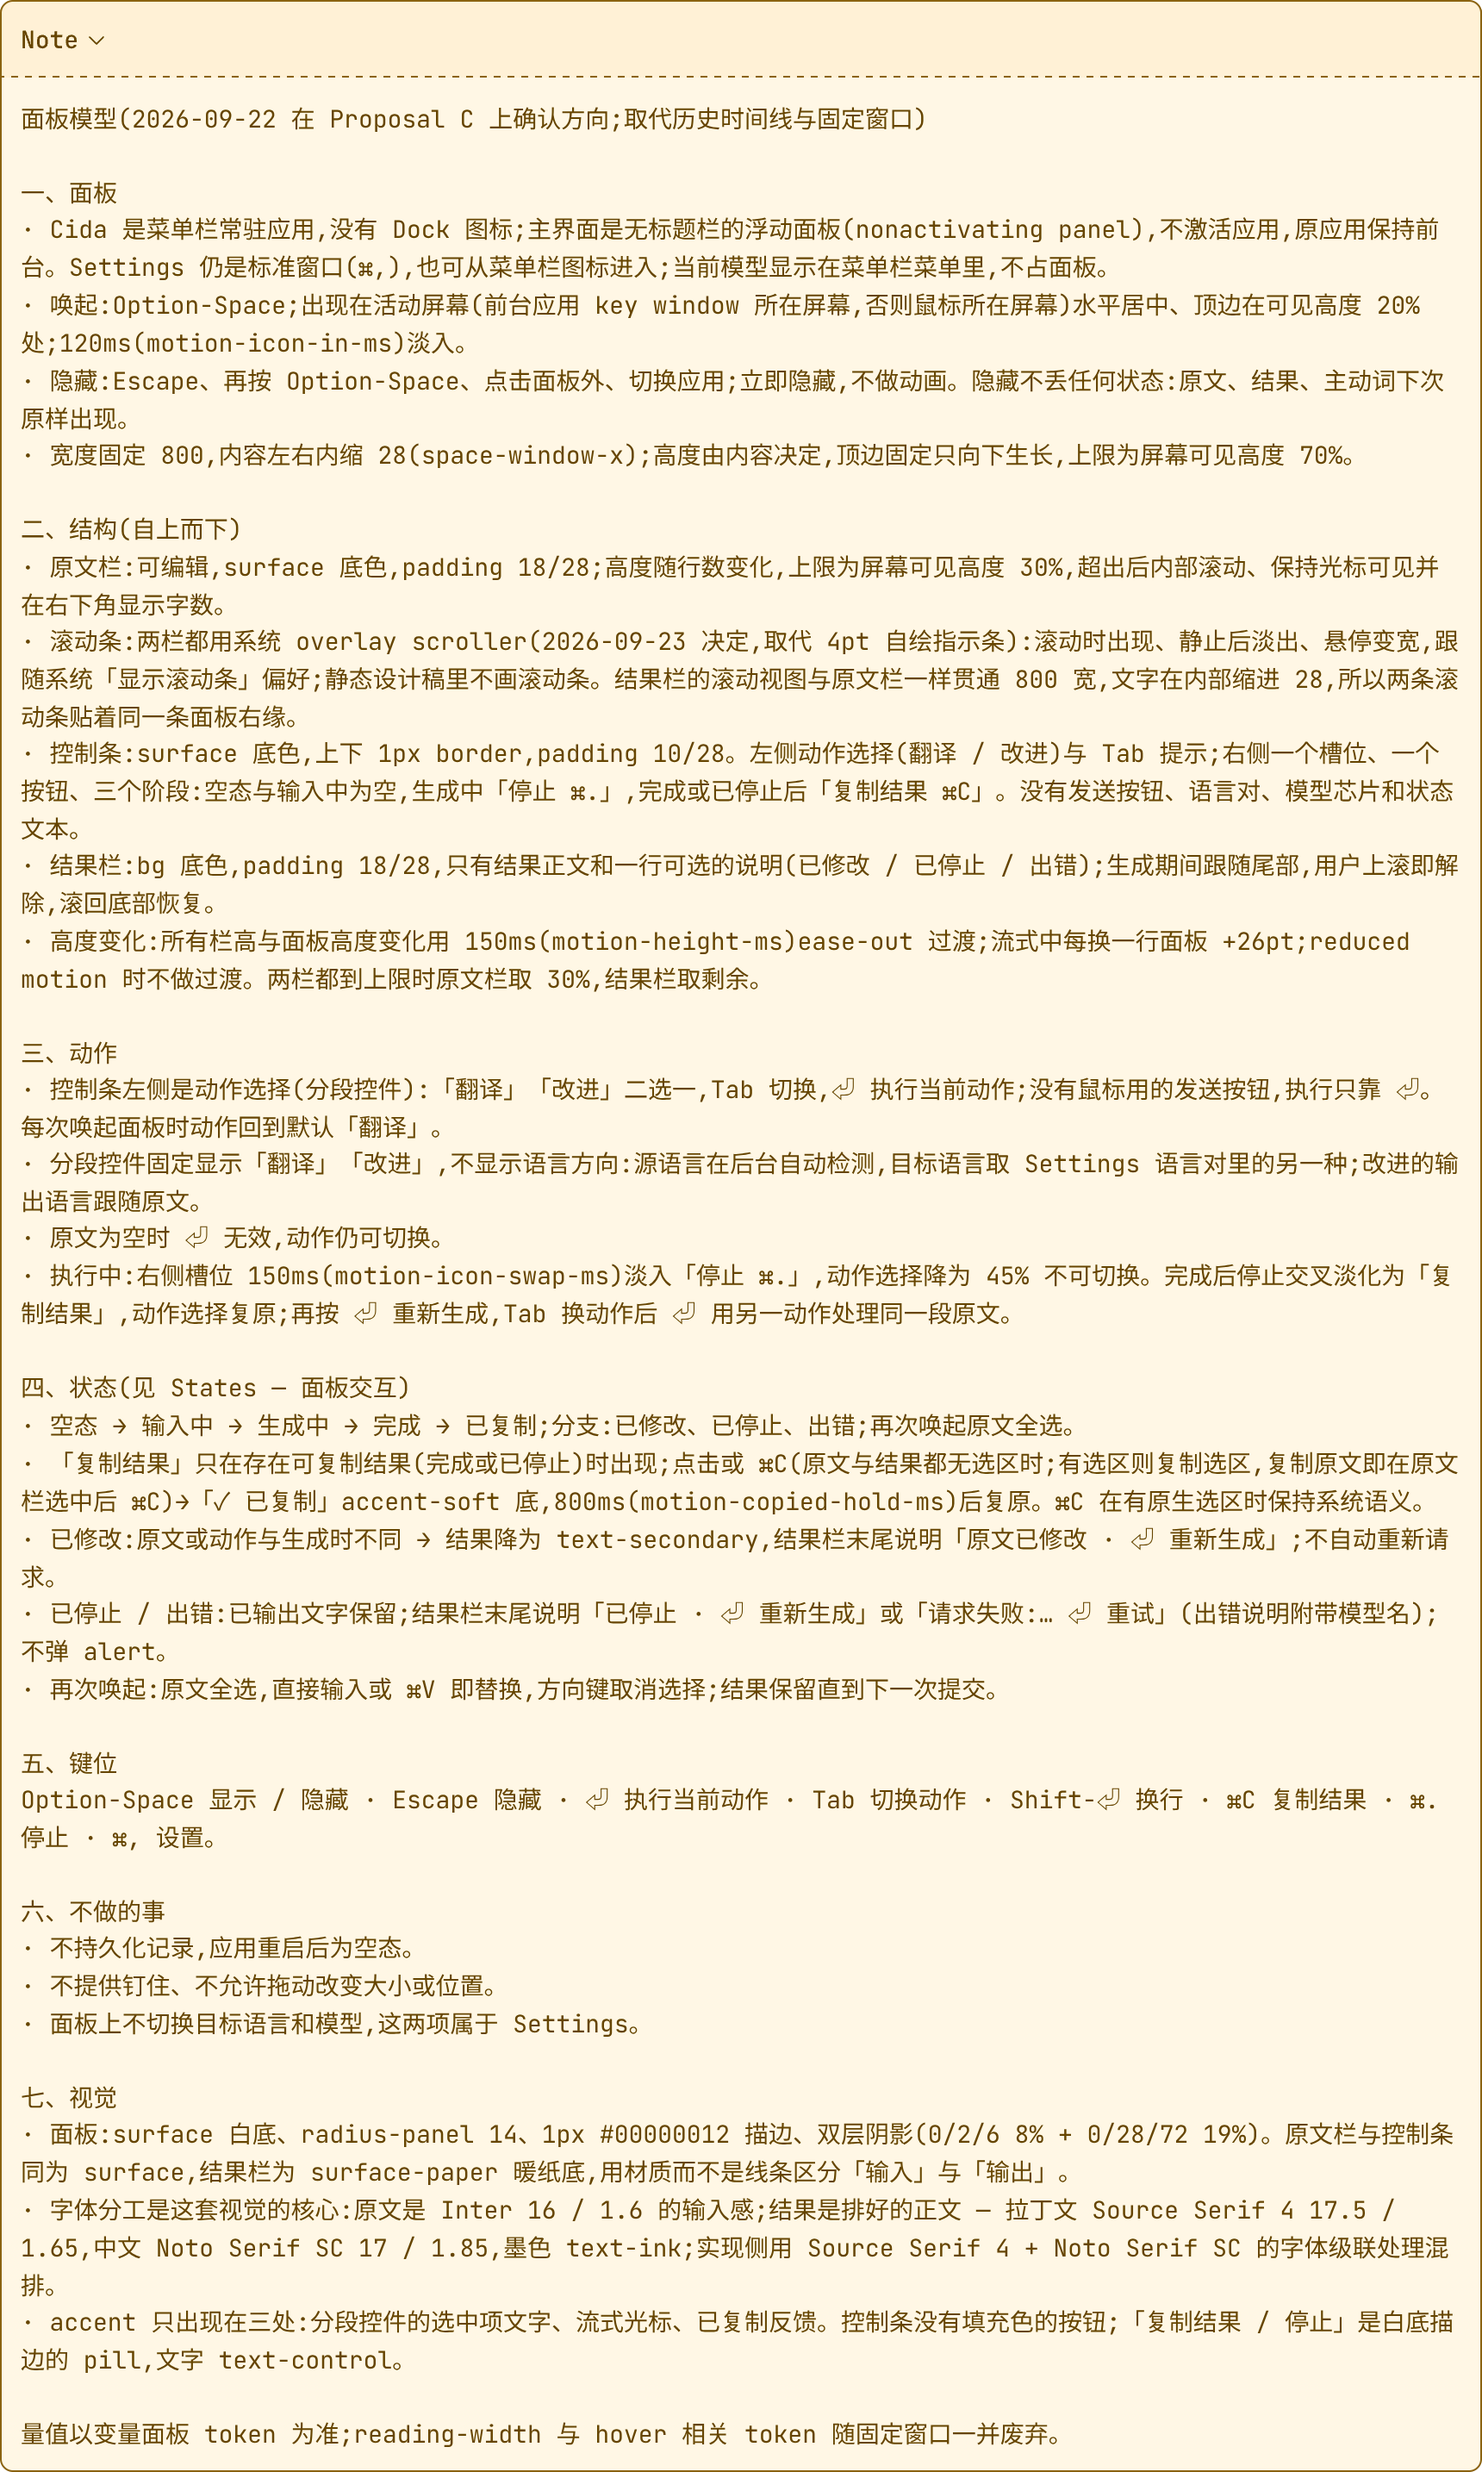
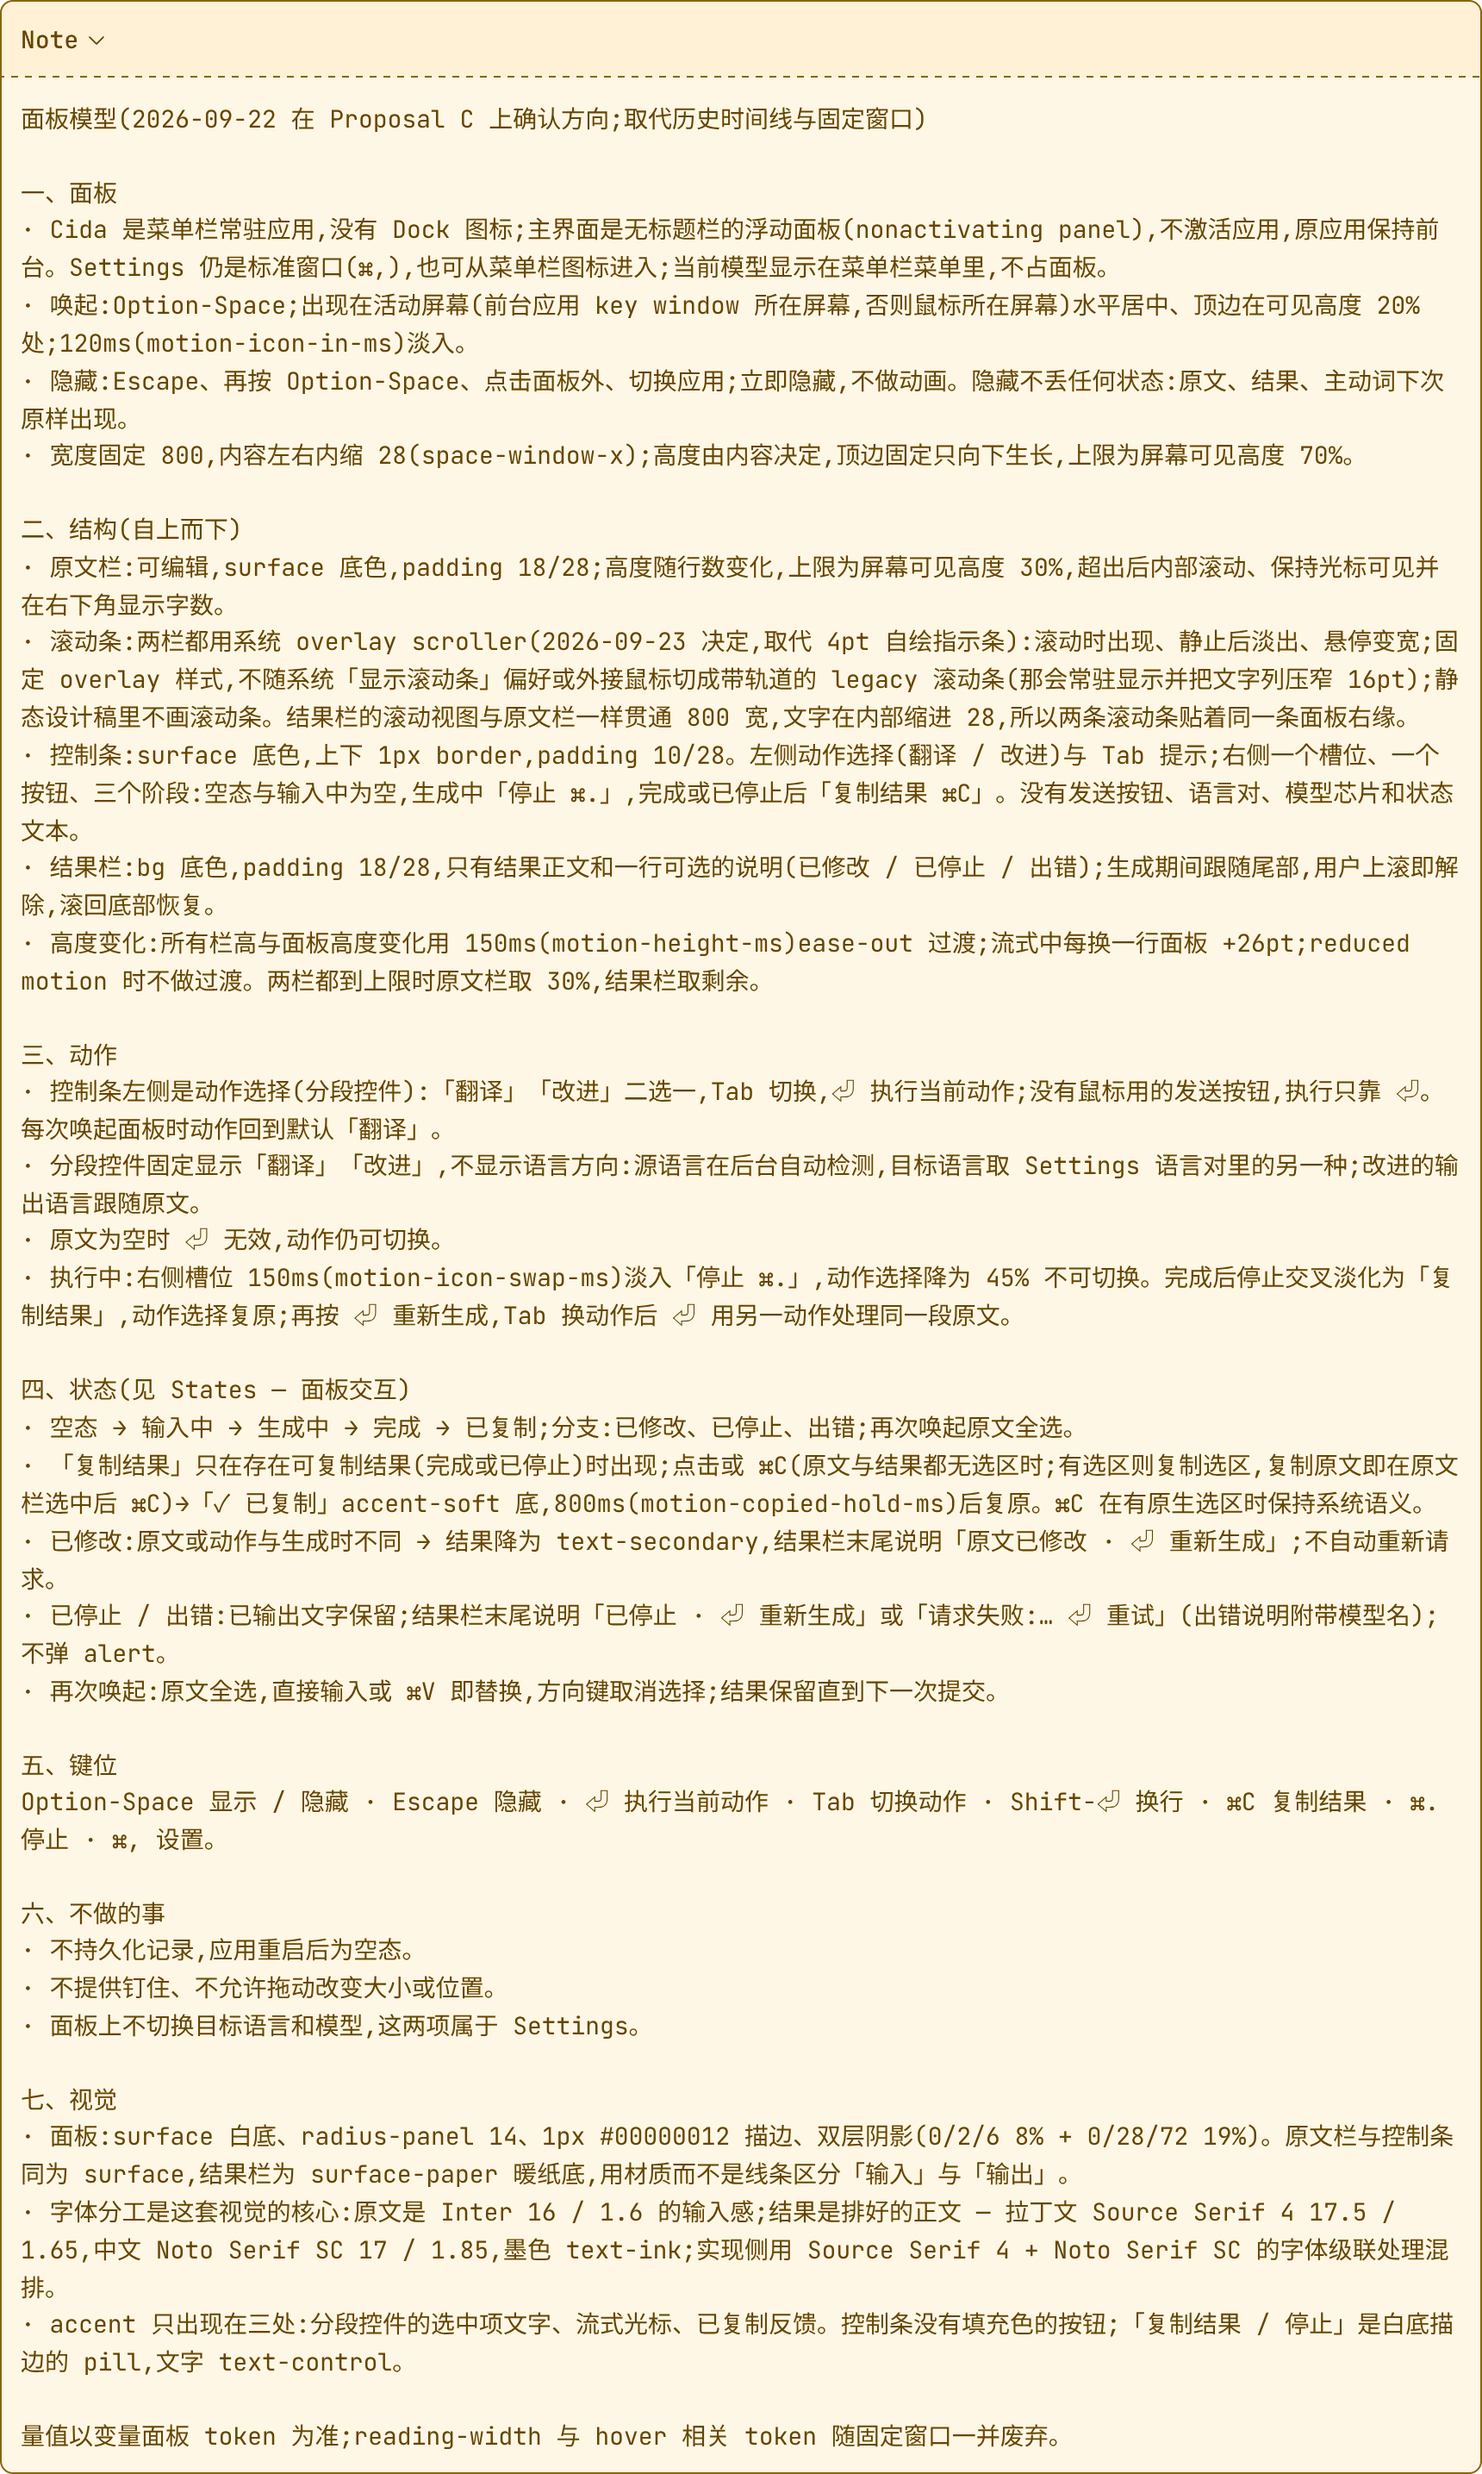
fix: pin the panel scroll bars to the overlay style
AppKit switches every scroll view to the legacy track when a mouse without
a trackpad is attached or the scroll-bar preference is "Always", which gave
the panel a permanent grey track and narrowed its text columns. The three
editors now use OverlayScrollView, which overrides scrollerStyle so the
system overlay bar stays whatever the preference or pointing device; the
bar still appears while scrolling or hovering and takes no width. The
Pencil spec records the decision and the manifest binds the saved design.

diff --git a/Tests/CidaTests/ComposerInteractionTests.swift b/Tests/CidaTests/ComposerInteractionTests.swift
@@ -208,14 +208,18 @@ extension InteractionReproductionTests {
       return resultScrollView.container.frame.height > resultScrollView.contentView.bounds.height
     }
 
-    // Both panes scroll with the system scroll bar; both scroll views reach
-    // the panel's right edge so the bars share it, and both texts start at
-    // the same 28 pt inset. A legacy (always visible) scroll bar narrows the
-    // text column by its own width, as it does in every native view.
+    // Both panes scroll with the system overlay scroll bar whatever the
+    // user's scroll-bar preference or pointing device: both scroll views
+    // reach the panel's right edge so the bars share it, the bar takes no
+    // width from the text, and both texts start at the same 28 pt inset.
     for scrollView in [resultScrollView, composerScrollView] {
       XCTAssertTrue(scrollView.hasVerticalScroller)
       XCTAssertTrue(scrollView.autohidesScrollers)
+      scrollView.scrollerStyle = .legacy
+      XCTAssertEqual(scrollView.scrollerStyle, .overlay, "The overlay style survives AppKit re-applying the preferred style")
+      XCTAssertEqual(scrollView.verticalScroller?.scrollerStyle, .overlay)
       XCTAssertEqual(scrollView.convert(scrollView.bounds, to: nil).maxX, CidaDesign.Panel.width, accuracy: 0.5)
+      XCTAssertEqual(scrollView.contentView.bounds.width, scrollView.bounds.width, accuracy: 0.5, "The overlay bar takes no width")
     }
     let textColumn = resultScrollView.container.textColumnFrameForTesting
     XCTAssertEqual(textColumn.minX, CidaDesign.Spacing.windowHorizontal, accuracy: 0.5)
@@ -226,7 +230,7 @@ extension InteractionReproductionTests {
 
     XCTAssertEqual(resultScrollView.contentView.bounds.minY, 0, accuracy: 0.5, "A completed result starts at its top")
 
-    // A legacy scroll bar (or any narrower clip) re-wraps the column at once.
+    // A narrower clip re-wraps the column at once.
     let layoutsBefore = resultScrollView.container.documentLayoutCount
     let narrowerWidth = resultScrollView.contentView.bounds.width - 17
     resultScrollView.container.setFrameSize(

diff --git a/Sources/Cida/ResultPane.swift b/Sources/Cida/ResultPane.swift
@@ -59,7 +59,7 @@ struct ResultTextView: NSViewRepresentable {
 }
 
 @MainActor
-final class ResultScrollView: NSScrollView, ResultHeightChangeHosting {
+final class ResultScrollView: OverlayScrollView, ResultHeightChangeHosting {
   let container = ResultTextContainer()
   var onContentHeightChange: @MainActor (CGFloat, Bool) -> Void = { _, _ in }
   /// While the text is shorter than this the pane still grows, so following
@@ -73,8 +73,9 @@ final class ResultScrollView: NSScrollView, ResultHeightChangeHosting {
     super.init(frame: .zero)
     drawsBackground = false
     borderType = .noBorder
-    // System overlay scroll bar, on the same edge as the source pane's: the
-    // scroll view spans the pane and the container insets its text.
+    // System overlay scroll bar (`OverlayScrollView`), on the same edge as the
+    // source pane's: the scroll view spans the pane and the container insets
+    // its text.
     hasVerticalScroller = true
     hasHorizontalScroller = false
     autohidesScrollers = true

diff --git a/Sources/Cida/OverlayScrollView.swift b/Sources/Cida/OverlayScrollView.swift
@@ -1,0 +1,18 @@
+import AppKit
+
+/// An `NSScrollView` whose scroll bar is always the system overlay bar.
+///
+/// AppKit switches every scroll view to the legacy bar (a permanent track
+/// that narrows the content) when a mouse without a trackpad is attached or
+/// the user picks "Always" for scroll bars in System Settings. The panel
+/// floats over other apps like Spotlight and its text columns are sized by
+/// the design, so it pins the overlay style: the bar appears while scrolling
+/// or hovering and takes no width. AppKit re-applies the preferred style
+/// through the setter, which is why the setter ignores its value.
+@MainActor
+class OverlayScrollView: NSScrollView {
+  override var scrollerStyle: NSScroller.Style {
+    get { .overlay }
+    set { super.scrollerStyle = .overlay }
+  }
+}

diff --git a/Sources/Cida/ComposerTextEditor.swift b/Sources/Cida/ComposerTextEditor.swift
@@ -167,11 +167,11 @@ struct ComposerTextEditor: NSViewRepresentable {
   }
 
   func makeNSView(context: Context) -> NSScrollView {
-    let scrollView = NSScrollView()
+    let scrollView = OverlayScrollView()
     scrollView.drawsBackground = false
     scrollView.borderType = .noBorder
     // System overlay scroll bar (Pencil `Spec — 面板模型`): appears while
-    // scrolling and follows the user's scroll-bar preference.
+    // scrolling or hovering and never narrows the text column.
     scrollView.hasVerticalScroller = true
     scrollView.hasHorizontalScroller = false
     scrollView.autohidesScrollers = true

diff --git a/Sources/Cida/PromptTextEditor.swift b/Sources/Cida/PromptTextEditor.swift
@@ -11,7 +11,7 @@ struct PromptTextEditor: NSViewRepresentable {
   }
 
   func makeNSView(context: Context) -> NSScrollView {
-    let scrollView = NSScrollView()
+    let scrollView = OverlayScrollView()
     scrollView.drawsBackground = false
     scrollView.borderType = .noBorder
     scrollView.hasVerticalScroller = true

diff --git a/README.md b/README.md
@@ -91,7 +91,7 @@ The strict performance gates require a detected 120 Hz-capable display, at least
 - Model requests keep stable prompt policy, typed runtime parameters, and untrusted source content separate. Translation sends the detected source language and the other language of the supported pair as target; improvement sends `preserve_source` without either translation language, so every source passage stays in its original language. The same contract is used for OpenAI, compatible remote providers, and loopback mock endpoints without requiring provider-specific template syntax.
 - Streamed results use a lightweight TextKit 1 rendering view and materialize a native selection editor only when needed. The result storage publishes an append notification, so TextKit appends only the missing UTF-16 suffix without invalidating the SwiftUI tree. A view-bound `CADisplayLink` adaptive presenter smooths uneven network delivery at 30–400 grapheme clusters per second with a maximum of eight grapheme clusters per update.
 - Each streamed run is laid out on the display pulse that presents it and painted by a short-lived fragment view that fades in from transparent and unblurs from 2 pt over the Pencil 120 ms ease-out behind the inline caret; the renderer skips those glyphs until the fade completes and then paints them in place. The result pane grows with its text until the panel reaches its height budget, then scrolls and keeps the tail in view while streaming unless the user scrolled away; a completed result opens at its top.
-- The source and result panes are native `NSScrollView`s with the system overlay scroll bar: it appears while scrolling, fades out at rest, and follows the user's scroll-bar preference. The result scroll view spans the pane and insets its text, so both bars sit on the panel's right edge.
+- The source and result panes are native `NSScrollView`s pinned to the system overlay scroll bar (`OverlayScrollView`): it appears while scrolling or hovering, fades out at rest, and never switches to the legacy track that a mouse or the "Always" preference would otherwise bring. The result scroll view spans the pane and insets its text, so both bars sit on the panel's right edge.
 - The source editor uses a full backing document with a virtualized TextKit viewport. Documents of at least 100,000 UTF-16 units materialize only the final 512 units; upward scrolling prepends earlier 1,024-unit pages on demand. The pane's height is measured from the laid-out text after every native edit, so deleting lines shrinks the pane and the panel immediately. The SwiftUI binding is never written back into the editor while an input method is composing, so pinyin candidates survive unrelated re-renders.
 - No idle display link or timer runs during normal use.
 

diff --git a/functional-qa.md b/functional-qa.md
@@ -131,6 +131,13 @@ are recorded as diagnostics rather than misclassified as test activity.
   `TestResults/panel-mutations-20260923` and `TestResults/panel-mutations-20260923-fix`; all 8
   killed again on the Settings redesign commit 805366e (`TestResults/settings-mutations-20260923`).
 
+### Tart XCUI run `overlay-tart-20260923`
+
+18 of 18 tests passed with the scroll bars pinned to the overlay style (`OverlayScrollView`; artifact
[1 lines of base64/hex data omitted]
+Letting the bars follow the system preference gave the user's Mac, which has a mouse attached, the
+legacy track in every pane; the guest no longer narrows the result column either.
+
 ### Tart XCUI run `scrollbars-tart-20260923c`
 
 18 of 18 tests passed with the system scroll bars (app-tree digest
